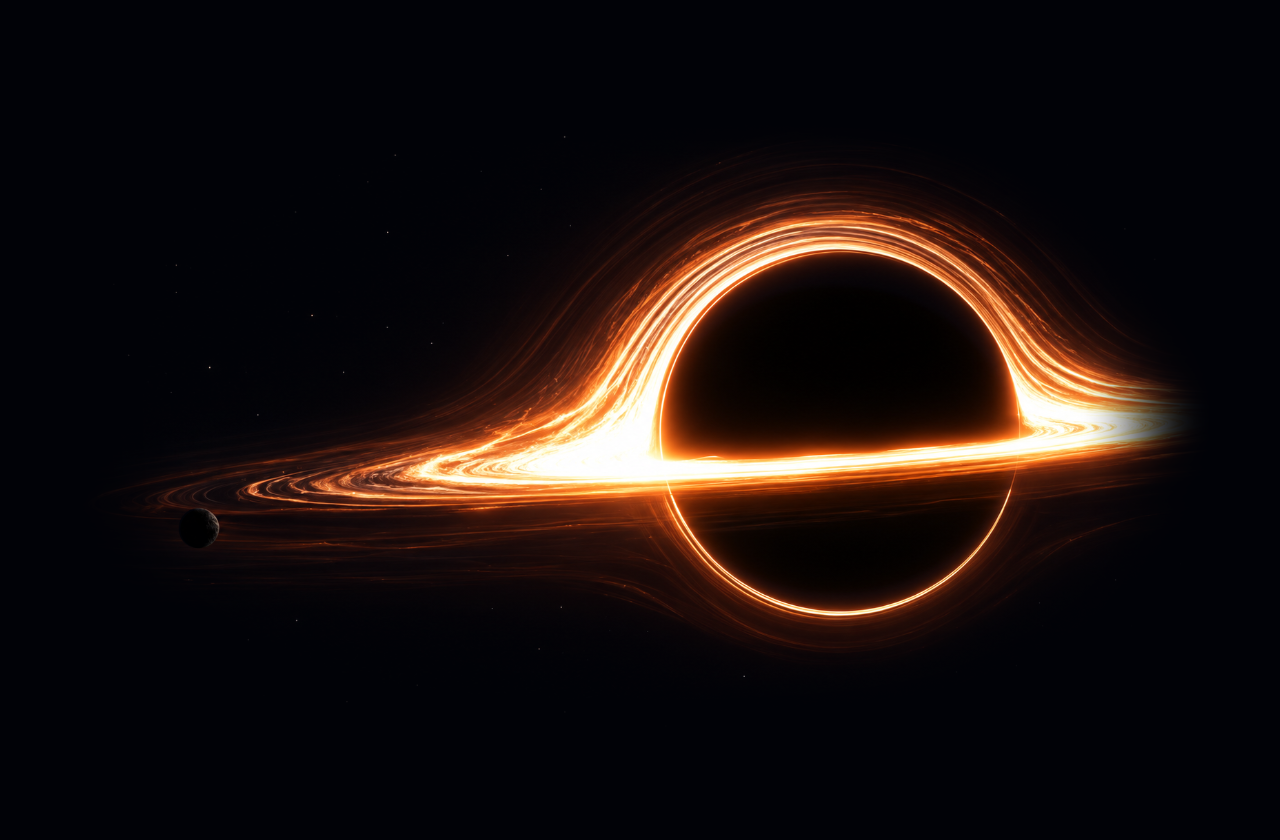
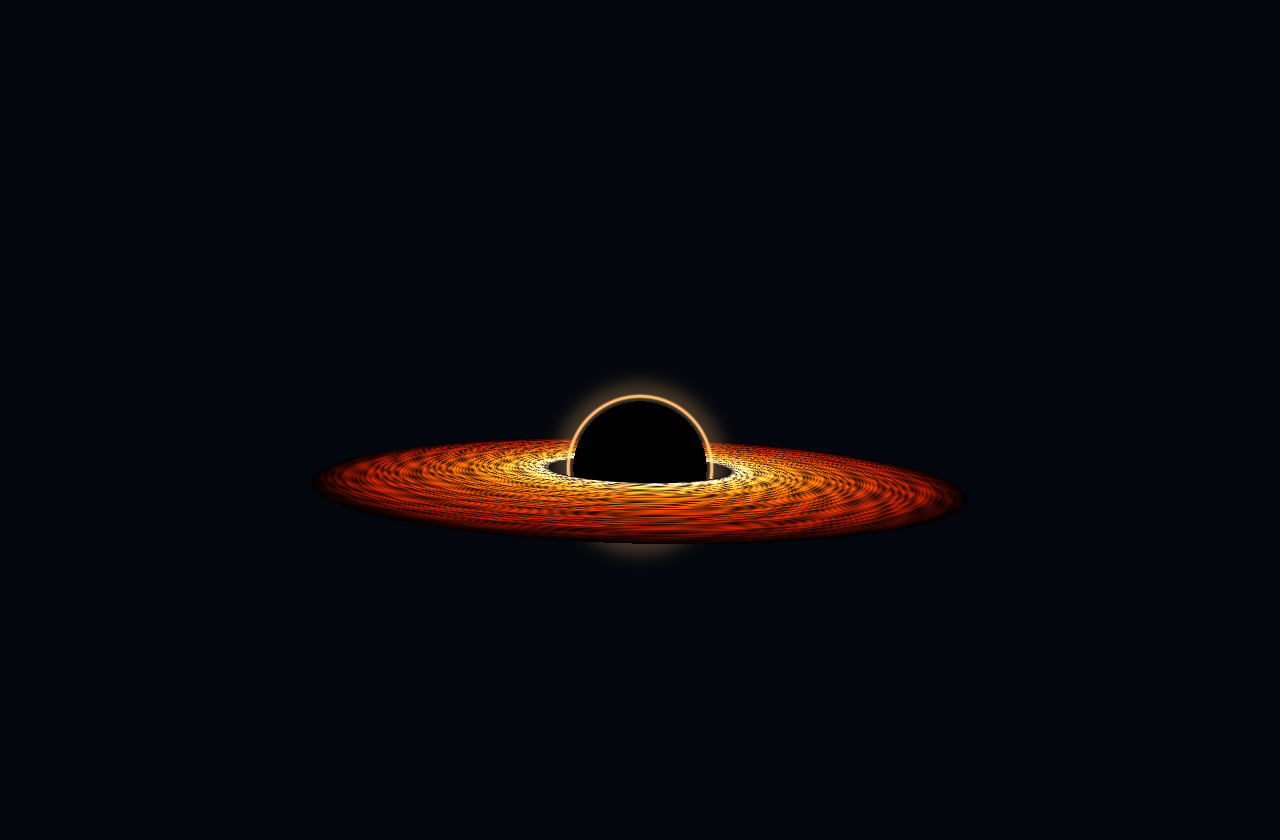
Documenta la atracción y guarda vistas de acercamiento y captura

Changed region(s): [[0.125, 0.2167, 0.9375, 0.7738]]

diff --git a/src/main.rs b/src/main.rs
@@ -102,7 +102,7 @@ fn main() -> Result<(), Box<dyn Error>> {
                 }
                 "--help" => {
                     println!(
-                        "cargo run --release\ncargo run --release -- --render-menu salida.png [--time 4] [--ship 2]\ncargo run --release -- --render-inspector salida.png [--ship 3]\ncargo run --release -- --render-flight salida.png [--ship 1] [--time 2] [--mouse 0.5 -0.3]\ncargo run --release -- --render-landmark salida.png [--target accretion]"
+                        "cargo run --release\ncargo run --release -- --render-menu salida.png [--time 4] [--ship 2]\ncargo run --release -- --render-inspector salida.png [--ship 3]\ncargo run --release -- --render-flight salida.png [--ship 1] [--time 2] [--mouse 0.5 -0.3] [--near-black-hole]\ncargo run --release -- --render-landmark salida.png [--target accretion]"
                     );
                     return Ok(());
                 }

diff --git a/assets/deep-space/README.md b/assets/deep-space/README.md
@@ -1,25 +1,45 @@
-# Agujero negro decorativo
+# Agujero negro con atracción
 
-El único escenario del espacio profundo es el agujero negro con disco naranja.
-Está en la posición (12420, 2610, −20560), lejos de los planetas, y se ve arriba
-a la derecha al despegar. Su ancho es de 11200 unidades del mundo.
+El agujero negro está en (420, 95, −800), a unas 909 unidades del inicio.
+Es visible arriba a la derecha al despegar y puedes alcanzarlo con la nave.
+El centro es una esfera y el disco es un anillo inclinado en el mundo: se
+renderizan mediante intersecciones de rayos, con profundidad, desde cualquier
+ángulo. Los filamentos naranjas del disco se animan con el reloj del vuelo.
 
-Es una imagen emisiva orientada a la cámara y anclada al mundo. Su proyección
-cambia al girar o desplazarse; la profundidad permite que la nave y los planetas
-pasen por delante. Los bordes se desvanecen sobre el cielo y la sombra central
-oculta el fondo. Es decoración estática, sin gravedad ni colisiones.
+## Comportamiento
 
-`textures/accretion.png` es una ilustración generada con ImageGen para este
-proyecto a partir de la referencia del usuario: disco naranja inclinado, arco
-luminoso, centro oscuro y un pequeño cuerpo oscuro. El efecto de lente está
-representado en la imagen; no es una simulación física.
+- Radio del horizonte: 44 unidades. Cruzarlo absorbe la nave.
+- Radio exterior del disco: 195 unidades.
+- Radio de atracción: 320 unidades, con entrada suave y fuerza creciente.
+- La atracción también actúa cuando sueltas WASD o usas el freno.
+- Puedes intentar escapar de la zona exterior orientándote hacia fuera y usando
+  WASD + SHIFT. Cerca del horizonte la atracción domina.
+- Tras ser absorbida, la nave reaparece en el origen después de 1.4 segundos.
+  Se eliminan los impulsos de caída y aparece un aviso de recuperación.
+- El HUD muestra distancia, advertencia de atracción y estado de captura.
+- La física y la animación se detienen al inspeccionar o perder el foco.
 
-![Agujero negro al despegar](previews/en-vuelo.png)
+Es una mecánica de juego con fuerzas acotadas y un anillo luminoso estilizado;
+no intenta simular relatividad general. El campo y la geometría comparten los
+parámetros de `src/black_hole.rs`, para que el volumen visible y el horizonte de
+captura coincidan. La colisión comprueba el trayecto entre pasos, incluso con
+velocidades altas.
 
-Para exportar una vista cercana con el mismo renderizador del juego:
+![Vista desde el inicio](previews/en-vuelo.png)
+![Atracción al acercarse](previews/atraccion.png)
+
+## Exportar vistas
 
 ```powershell
 cargo run --release -- --render-landmark output/agujero.png
+cargo run --release -- --render-flight output/atraccion.png --near-black-hole --time 1
+cargo run --release -- --render-flight output/captura.png --near-black-hole --time 4.5
 ```
 
-La captura cercana está en `previews/accretion.png`.
+`--near-black-hole` inicia únicamente la exportación a 250 unidades del centro.
+No teletransporta la nave en el juego interactivo. `--time` mantiene W durante
+la simulación, con las mismas fuerzas y captura de la aplicación.
+
+`textures/accretion.png` conserva la ilustración generada con ImageGen a partir
+de la referencia del usuario como referencia artística. El juego ahora dibuja
+geometría procedural; ya no utiliza esa imagen como cartel orientado a la cámara.

diff --git a/README.md b/README.md
@@ -66,10 +66,13 @@ nave y los planetas, y sigue animándose aunque estés detenido. Las tormentas y
 rotación de los planetas se pausan al inspeccionar la nave o perder el foco; la
 pausa de las vistas previas del hangar no afecta al tiempo del vuelo.
 
-El espacio profundo conserva un agujero negro con disco naranja como decoración
-lejana, visible al despegar arriba a la derecha. Es una imagen emisiva estática
-anclada al mundo, con sombra y profundidad. Puedes ver
-[capturas, posición y procedencia](assets/deep-space/README.md).
+El agujero negro es un objeto tridimensional alcanzable, visible arriba a la
+derecha al despegar. Puedes rodear su centro esférico y su disco naranja animado.
+Al entrar a menos de 320 unidades empieza a atraer la nave, incluso sin pulsar
+WASD. La fuerza aumenta al acercarte: usa WASD y `SHIFT` para intentar escapar.
+Si cruzas su horizonte, la nave es absorbida y reaparece en el punto inicial.
+El HUD muestra la distancia y avisa de la atracción. Puedes ver
+[capturas y parámetros](assets/deep-space/README.md).
 
 ## Controles de inspección
 
